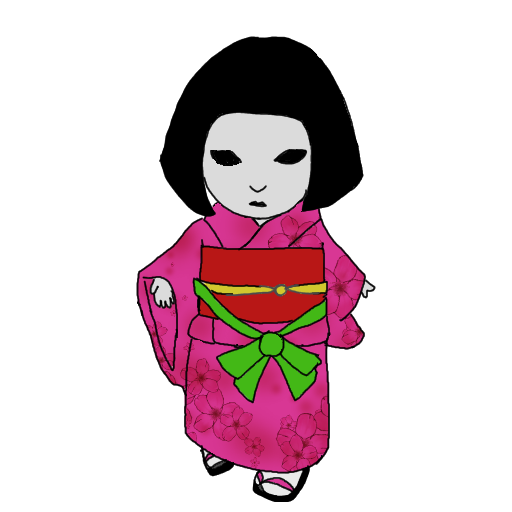
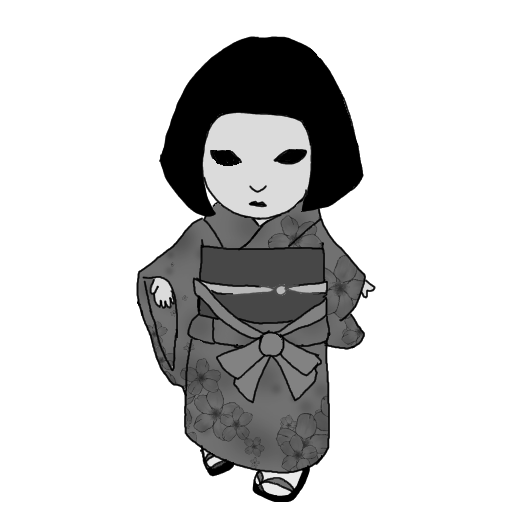
エネミーの画像を変更

Changed region(s): [[0.25, 0.375, 0.7188, 0.9688]]

diff --git a/秋制作 ProjectA ver_α/テンプレート/Src/Character/Enemy/Id/Freddy.cpp b/秋制作 ProjectA ver_α/テンプレート/Src/Character/Enemy/Id/Freddy.cpp
@@ -17,7 +17,7 @@ void Ohagi::Update()
 {
 	m_iFrameCount++;
 
-	if (m_IsActive == false && m_iFrameCount >= 300) {
+	if (m_IsActive == false && m_iFrameCount >= 200) {
 
 		m_iFrameCount = 0;
 		m_IsActive	  = true;
@@ -102,6 +102,7 @@ void Ohagi::LoadTex(SceneId id_)
 		LoadTexture("Res/Game/Enemy/Ohagi/Freddy.png", TEXTURE_CATEGORY_CENTER, CenterCategoryTextureList::GameCenterFreddy);
 		LoadTexture("Res/Game/Enemy/Ohagi/Freddy_Far.png", TEXTURE_CATEGORY_ENEMY, EnemyCategoryTextureList::FredyFarTex);
 		LoadTexture("Res/Game/Enemy/Ohagi/Freddy_Near.png", TEXTURE_CATEGORY_ENEMY, EnemyCategoryTextureList::FredyNearTex);
+		LoadTexture("Res/Game/Enemy/Ohagi/FreddyAAA.png", TEXTURE_CATEGORY_ENEMY, EnemyCategoryTextureList::FredyPlayerTex);
 		break;
 
 	case MonitorScene:
@@ -144,7 +145,7 @@ void Ohagi::Draw()
 		if (GetCurrentSceneId() == SceneId::MonitorScene
 			&& GameView()->CurrentMonitorID() == MonitorView::RECEPTION_ROOM_VIEW) {
 
-			DrawTexture(0.0f, 0.0f, GetTexture(TEXTURE_CATEGORY_ENEMY, EnemyCategoryTextureList::FredyNearTex));
+			DrawTexture(100.0f, 600.0f, GetTexture(TEXTURE_CATEGORY_CENTER, CenterCategoryTextureList::GameCenterFreddy));
 		}
 		break;
 
@@ -164,7 +165,7 @@ void Ohagi::Draw()
 			&& GetCurrentSceneId() == SceneId::GameScene
 				&& pCenterCandle->HasCaLight() == true) {
 
-			DrawTexture(850.0f, 320.0f, GetTexture(TEXTURE_CATEGORY_CENTER, CenterCategoryTextureList::GameCenterFreddy));
+			DrawTexture(850.0f, 350.0f, GetTexture(TEXTURE_CATEGORY_ENEMY, EnemyCategoryTextureList::FredyPlayerTex));
 		}
 		break;
 

diff --git a/秋制作 ProjectA ver_α/テンプレート/Src/Character/Enemy/Id/Bonnie.cpp b/秋制作 ProjectA ver_α/テンプレート/Src/Character/Enemy/Id/Bonnie.cpp
@@ -15,7 +15,7 @@ void Ume::Update()
 {
 	m_iFrameCount++;
 
-	if (m_IsActive == false && m_iFrameCount >= 700) {
+	if (m_IsActive == false && m_iFrameCount >= 5000) {
 
 		m_iFrameCount = 0;
 		m_IsActive	  = true;
@@ -105,6 +105,7 @@ void Ume::LoadTex(SceneId id_)
 	case GameScene:
 		LoadTexture("Res/Game/Enemy/Sakura/Chica_Look.png", TEXTURE_CATEGORY_ENEMY, EnemyCategoryTextureList::BonnieLookTex);
 		LoadTexture("Res/Game/Enemy/Sakura/Chica.png", TEXTURE_CATEGORY_ENEMY, EnemyCategoryTextureList::EnemyBonnieTex);
+		LoadTexture("Res/Game/Enemy/Sakura/sak_walk_rough.png", TEXTURE_CATEGORY_ENEMY, EnemyCategoryTextureList::BonnieNearTex);
 		break;
 
 	case MonitorScene:
@@ -171,7 +172,7 @@ void Ume::Draw()
 		if (GameView()->CurrentViewID() == GameData::SubGameScene::LEFT
 			&& GetCurrentSceneId() == SceneId::GameScene) {
 
-			DrawTexture(1360.0f, 440.0f, GetTexture(TEXTURE_CATEGORY_ENEMY, EnemyCategoryTextureList::EnemyBonnieTex));
+			DrawTexture(1360.0f, 440.0f, GetTexture(TEXTURE_CATEGORY_ENEMY, EnemyCategoryTextureList::BonnieNearTex));
 		}
 		break;
 	default:

diff --git a/秋制作 ProjectA ver_α/テンプレート/Src/Main.cpp b/秋制作 ProjectA ver_α/テンプレート/Src/Main.cpp
@@ -21,10 +21,12 @@ int WINAPI WinMain(HINSTANCE hInstance,
 	Timer::CreateInstance();
 	{
 		// エンジンの初期化
-		if (InitEngine(1920, 1080, "FaNF2", WINDOWED) == false)
+		if (InitEngine(1920, 1080, "FaNF2", FULL_SCLEEN) == false)
 		{
 			return 0;
 		}
+
+		SetCursorPos(1920 / 2, 1080 / 2);
 
 		while (SceneController()->IsGetID(SceneTransition::Id::Finish) == false)
 		{

diff --git a/秋制作 ProjectA ver_α/テンプレート/Src/Character/Enemy/Id/G_Freddy.cpp b/秋制作 ProjectA ver_α/テンプレート/Src/Character/Enemy/Id/G_Freddy.cpp
@@ -17,7 +17,7 @@ void Botan::Init()
 void Botan::Update()
 {
 	if (m_pPlayer->HasGFreddySpown() == true) {
-		if (SpawnJudgement(0.10) == true) {
+		if (SpawnJudgement(0.00) == true) {
 			m_IsActive = true;
 		}
 		m_SpawnJudgement = true;
